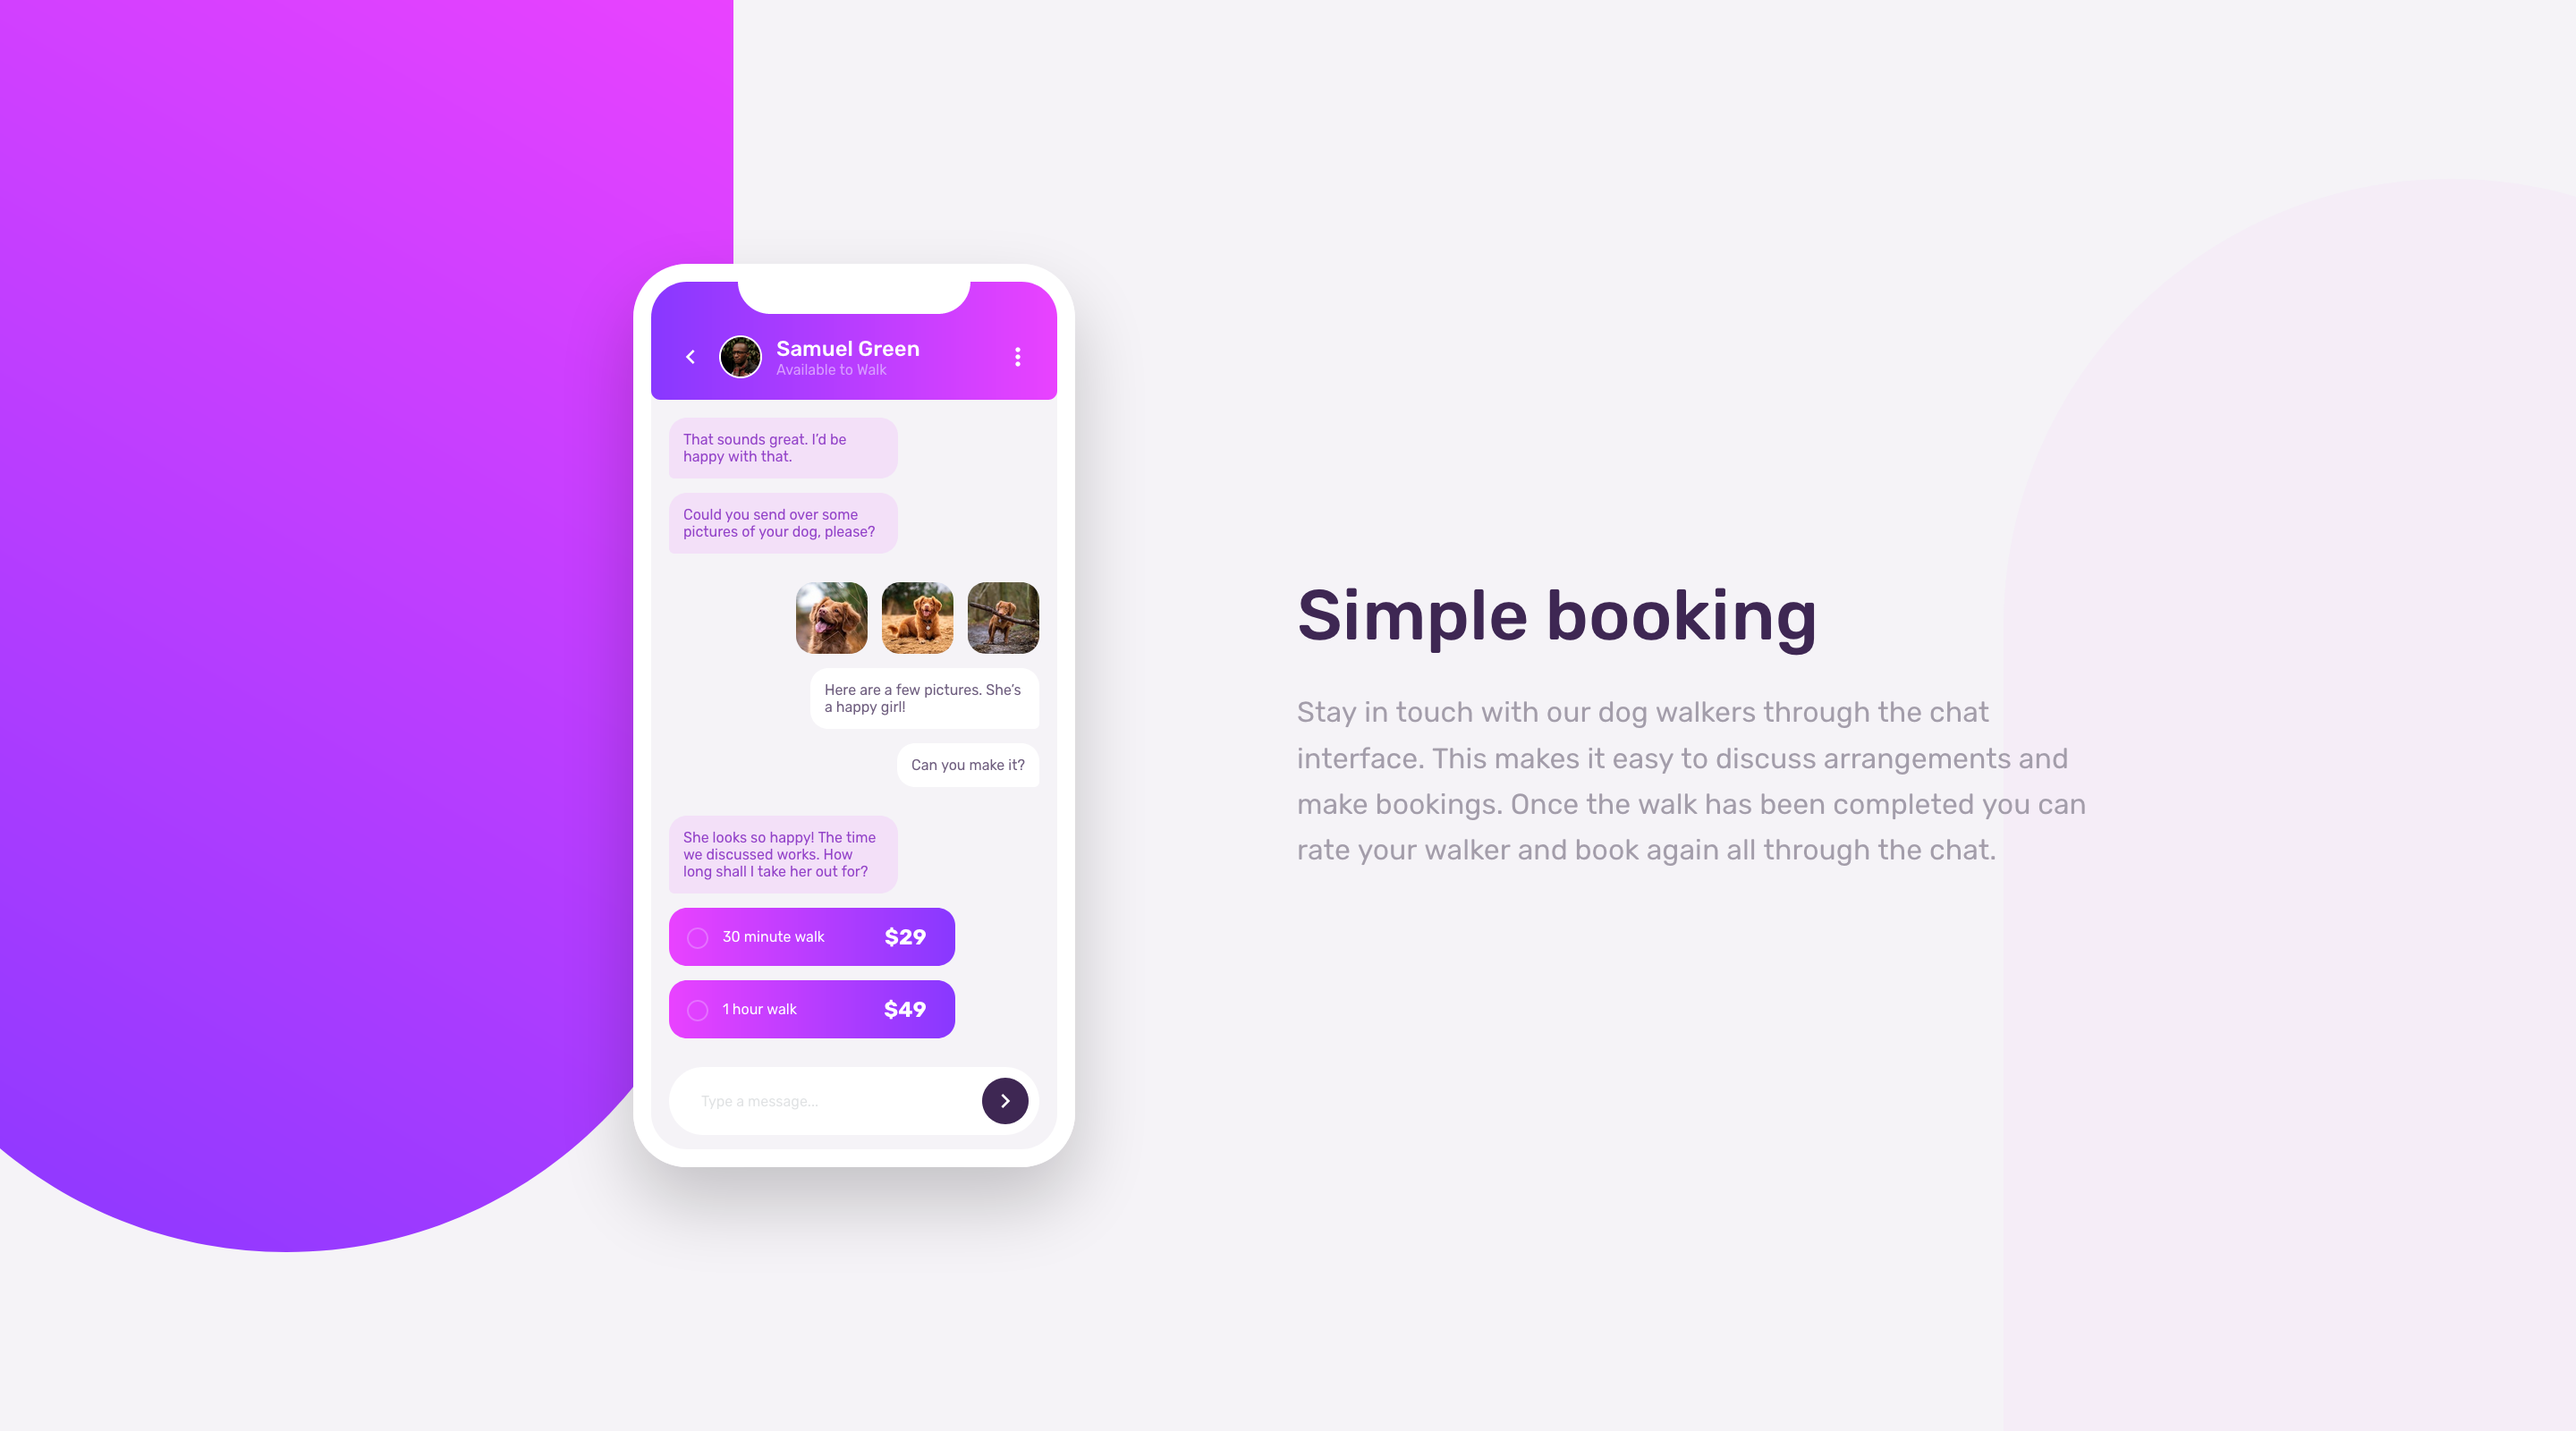
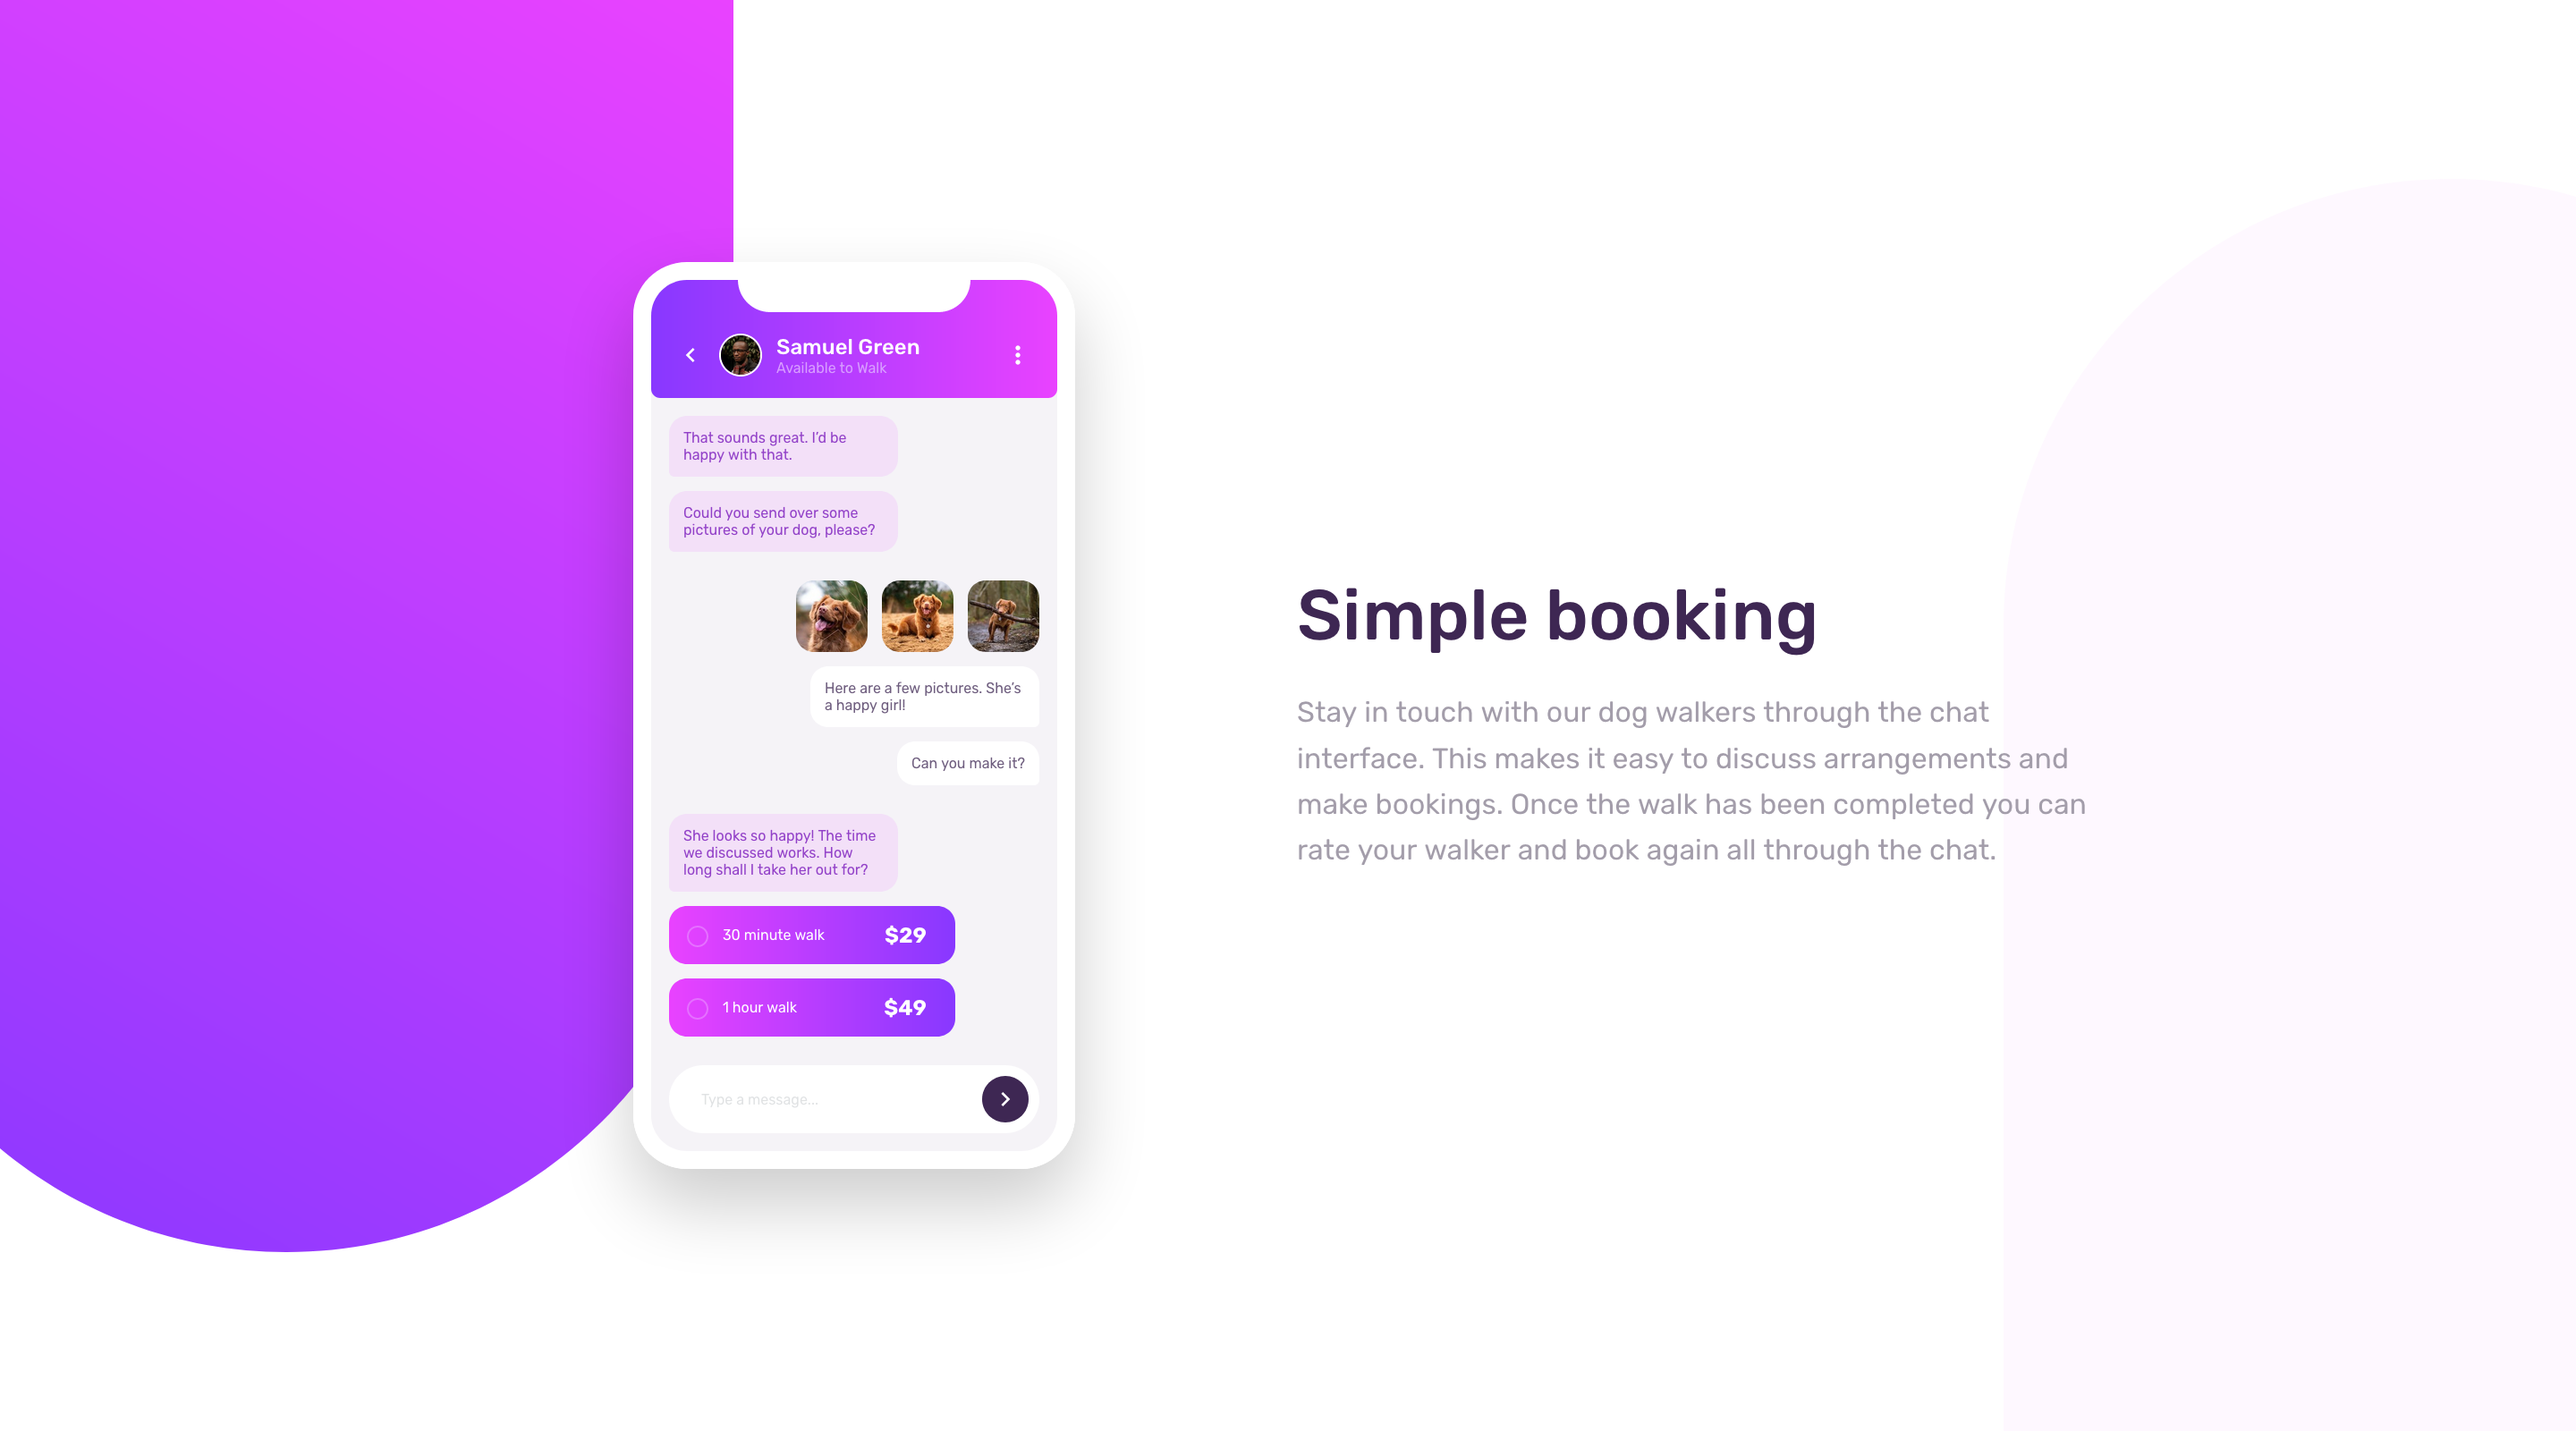
fixed background color

diff --git a/style.css b/style.css
@@ -31,7 +31,6 @@ a {
   display: grid;
   place-items: center;
   min-height: 100vh;
-  background-color: hsl(270, 20%, 96%);
 }
 
 .wrapper::before,

diff --git a/README.md b/README.md
@@ -1,6 +1,6 @@
 # Frontend Mentor - Chat app CSS illustration solution
 
-This is a solution to the [Chat app CSS illustration challenge on Frontend Mentor](https://www.frontendmentor.io/challenges/chat-app-css-illustration-O5auMkFqY). Frontend Mentor challenges help you improve your coding skills by building realistic projects.
+This is a solution to the [Chat app CSS illustration challenge on Frontend Mentor](https://www.frontendmentor.io/challenges/chat-app-css-illustration-O5auMkFqY).
 
 ## Table of contents
 
